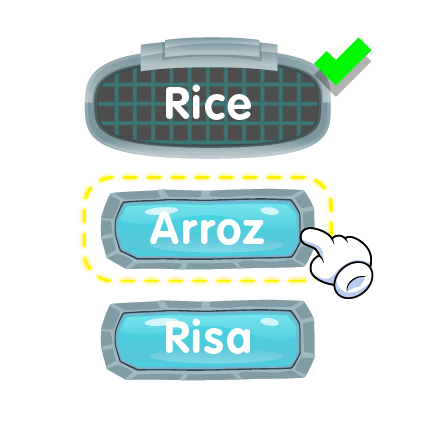
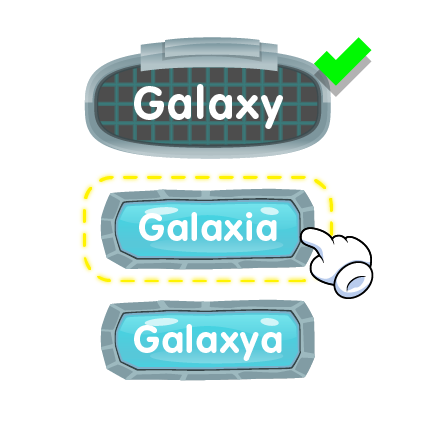
Changes for education

diff --git a/newStructure/minigames/spaceWords/js/scenes/space.js b/newStructure/minigames/spaceWords/js/scenes/space.js
@@ -517,7 +517,7 @@ var space = function () {
         board.scale.setTo(0)
         boardGroup.board = board
 
-        var fontStyle = { font: "60px VAGRounded", fontWeight: "bold", fill: "#ffffff", align: "center" }
+        var fontStyle = { font: "55px VAGRounded", fontWeight: "bold", fill: "#ffffff", align: "center" }
 
         var text = new Phaser.Text(sceneGroup.game, board.x, board.y + 10, "", fontStyle)
         text.anchor.setTo(0.5)
@@ -560,7 +560,7 @@ var space = function () {
                 }
             }
 
-            var fontStyle = { font: "30px VAGRounded", fontWeight: "bold", fill: "#ffffff", align: "center" };
+            var fontStyle = { font: "28px VAGRounded", fontWeight: "bold", fill: "#ffffff", align: "center" };
 
             var text = new Phaser.Text(sceneGroup.game, card.x, card.y + 5, "Threehouse", fontStyle);
             text.anchor.setTo(0.5);
